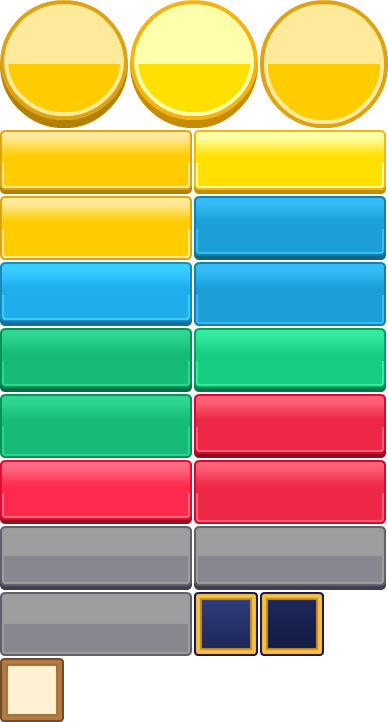
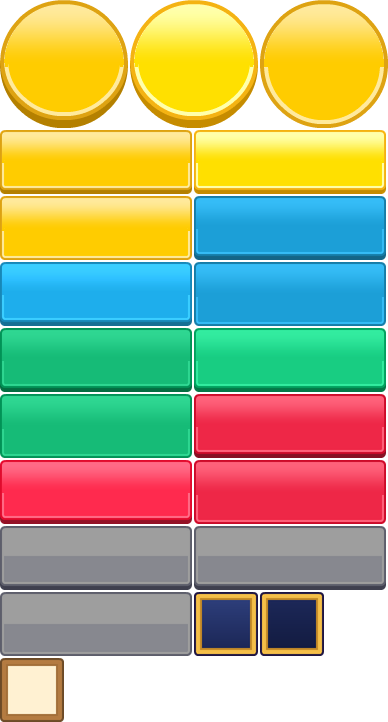
Round HUD buttons scale as a whole, softer gradient on round buttons; docs

Changed region(s): [[0.0, 0.0305, 0.6495, 0.0914], [0.6804, 0.0305, 0.9897, 0.0914]]

diff --git a/tools/build_ui_atlas.py b/tools/build_ui_atlas.py
@@ -50,17 +50,23 @@ def soften(img: Image.Image) -> Image.Image:
 	px = img.load()
 	w, h = img.size
 	cx = w // 2
-	pale = px[cx, 8][:3]
-	body = px[cx, 42][:3]
-	for y in range(3, 33):
-		t = min(1.0, max(0.0, (y - 3) / 26.0))
+	top = 3 * h // 64
+	pale = px[cx, top + 5][:3]
+	split = top + 5
+	while split < h - 2 and sum(abs(px[cx, split][i] - pale[i]) for i in range(3)) < 30:
+		split += 1
+	body = px[cx, split + 3][:3]
+	span = float(split + 2 - top)
+	for y in range(top, split + 3):
+		t = min(1.0, max(0.0, (y - top) / span))
 		t = t * t * (3 - 2 * t)
 		col = tuple(int(pale[i] * (1 - t) + body[i] * t) for i in range(3))
 		for x in range(w):
 			r, g, b, a = px[x, y]
-			if a and all(abs((r, g, b)[i] - pale[i]) < 10 for i in range(3)):
-				px[x, y] = col + (a,)
-			elif a and all(abs((r, g, b)[i] - body[i]) < 10 for i in range(3)):
+			if a and (
+				all(abs((r, g, b)[i] - pale[i]) < 10 for i in range(3))
+				or all(abs((r, g, b)[i] - body[i]) < 10 for i in range(3))
+			):
 				px[x, y] = col + (a,)
 	return img
 
@@ -69,6 +75,7 @@ def round_button(src: str) -> dict:
 	base = os.path.join(src, "uipack", "PNG", "Yellow", "Double")
 	up = load(os.path.join(base, "button_round_depth_gloss.png"))
 	down = load(os.path.join(base, "button_round_gloss.png"))
+	up, down = soften(up), soften(down)
 	return {"up": up, "hover": ImageEnhance.Brightness(up).enhance(1.1), "down": down}
 
 

diff --git a/docs/ART_GUIDE.md b/docs/ART_GUIDE.md
@@ -96,3 +96,16 @@
   кодом (`scripts/hud_icon.gd`), без картинок.
 - Шрифт — встроенный шрифт Godot (поддерживает кириллицу), текст кремовый с тёмной обводкой.
 - Интерактивные зоны ≥ 68 px по высоте при 720 px экрана.
+
+## UI theme v2 (2026-10-15)
+
+- Кнопки и панели - `StyleBoxTexture` 9-slice из **одного** атласа `ui/theme_atlas.png`
+  (Kenney UI Pack CC0, перекрашено под палитру логотипа; источники и правки - `docs/CREDITS.md`,
+  сборка - `tools/build_ui_atlas.py`). Один атлас = кнопки и панели батчатся, draw calls HUD не растут.
+- Цвета кнопок: жёлтая (золото) - основное действие, синяя (`SecondaryButton`) - второстепенное,
+  зелёная (`GreenButton`) - выбранный переключатель, красная (`DangerButton`), серая - `disabled`.
+  Панель - индиго с золотой рамкой; `HudChip`/`HudPill` - плоские скруглённые `StyleBoxFlat`.
+- Высота кнопки >= 84 px на базовом экране 1280x720 (отступы в стиле + шрифт 26).
+- Шрифт - Nunito 700 (OFL, кириллица есть). Без обводки текста и теней в кнопках.
+- Круглые кнопки HUD (атака, вихрь) - тот же атлас без 9-slice (масштаб целой текстуры).
+- Скриншоты для проверки: `tools/shot_ui.gd`, `tools/shot_store.gd`; до/после - `docs/screenshots/theme_*.jpg`.

diff --git a/docs/TECHNICAL_DESIGN.md b/docs/TECHNICAL_DESIGN.md
@@ -516,6 +516,10 @@ max(min_gold, round(start_gold · price_decay^n)). `main.gd` открывает 
 | 5 | 5 / 18 | 73 | 100 | 114 | 137 | 20 | 129 |
 | 6 | 5 / 18 | 73 | 115 | 115 | 122 | 19 | 174 |
 
+Тема UI v2 (текстурные 9-slice кнопки и панели из одного атласа `ui/theme_atlas.png`, шрифт Nunito), замер
+2026-10-15 до → после: уровень 1 — бой среднее 105 → 104, пик 120 → 119, HUD 35 → 34 вызова; уровень 3 — среднее 103,
+пик 119. Атлас один, поэтому кнопки и панели батчатся; тени и обводки текста не добавлялись.
+
 Итог: статичная сцена 66–78 вызовов (до слияния оптимизаций было 83–96); средний бой в стрессе ≤ 124, пики до 146
 (2-й уровень), т.е. цель «< 120 в бою» в самом тяжёлом режиме (все слоты максимальными башнями) выдержана не везде.
 Основной вклад даёт число башен (≈ 2 вызова на башню с тенью) и толпа врагов; порталы и маркеры сторон (экранные
